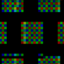
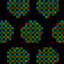
Fixed the lightfield pattern to represent the actual pattern of microlenses correctly

diff --git a/src/libs/lightfields/pattern.cpp b/src/libs/lightfields/pattern.cpp
@@ -70,6 +70,9 @@ Pattern::Sample Pattern::sample(const Imath::V2i& pixelPos) const {
 			top[0] -= 1.0;
 	}
 
+	top[1] *= sqrt(3.0/4.0);
+	bottom[1] *= sqrt(3.0/4.0);
+
 	if(bottom.length2() < top.length2()) {
 		result.pos[2] = bottom[0];
 		result.pos[3] = bottom[1];
@@ -79,17 +82,13 @@ Pattern::Sample Pattern::sample(const Imath::V2i& pixelPos) const {
 		result.pos[3] = top[1];
 	}
 
-
-	// result.pos[2] = (pos[0] - floor(pos[0] + 0.5));
-	// result.pos[3] = (pos[1] - floor(pos[1] + 0.5));
-
-	result.pos[0] = (double)pixelPos[0] - result.pos[2] / scale_x;
+	result.pos[0] = (double)pixelPos[0] - result.pos[2] / scale_x * sqrt(3.0/4.0);
 	result.pos[1] = (double)pixelPos[1] - result.pos[3] / scale_y;
 
 	result.pos[2] *= 2.0;
 	result.pos[3] *= 2.0;
 
-	result.lens_id = 0 /*round(result.pos[0]) * 7 + round(result.pos[1])*/;
+	result.lens_id = (result.pos[2] > 0) + (result.pos[3] > 0) * 2;
 
 	return result;
 }

diff --git a/src/plugins/opencv/nodes/lightfields/draw_pattern.cpp b/src/plugins/opencv/nodes/lightfields/draw_pattern.cpp
@@ -33,7 +33,13 @@ dependency_graph::State compute(dependency_graph::Values& data) {
 			// if(current < 1.0)
 				// color[2] += (1.0 - current) * 128 + 127;
 				// color[value.lens_id % 3] = fmod((current) * 256, 64.0f) + 127;
-				color[value.lens_id % 3] = current * 64 + 127;
+
+			for(unsigned a=0;a<3;++a) {
+				if(value.lens_id & (1 << a))
+					color[a] = int(current * 64) + 127;
+				else
+					color[a] = 0;
+			}
 		}
 
 	data.set(a_out, possumwood::opencv::Frame(mat));
